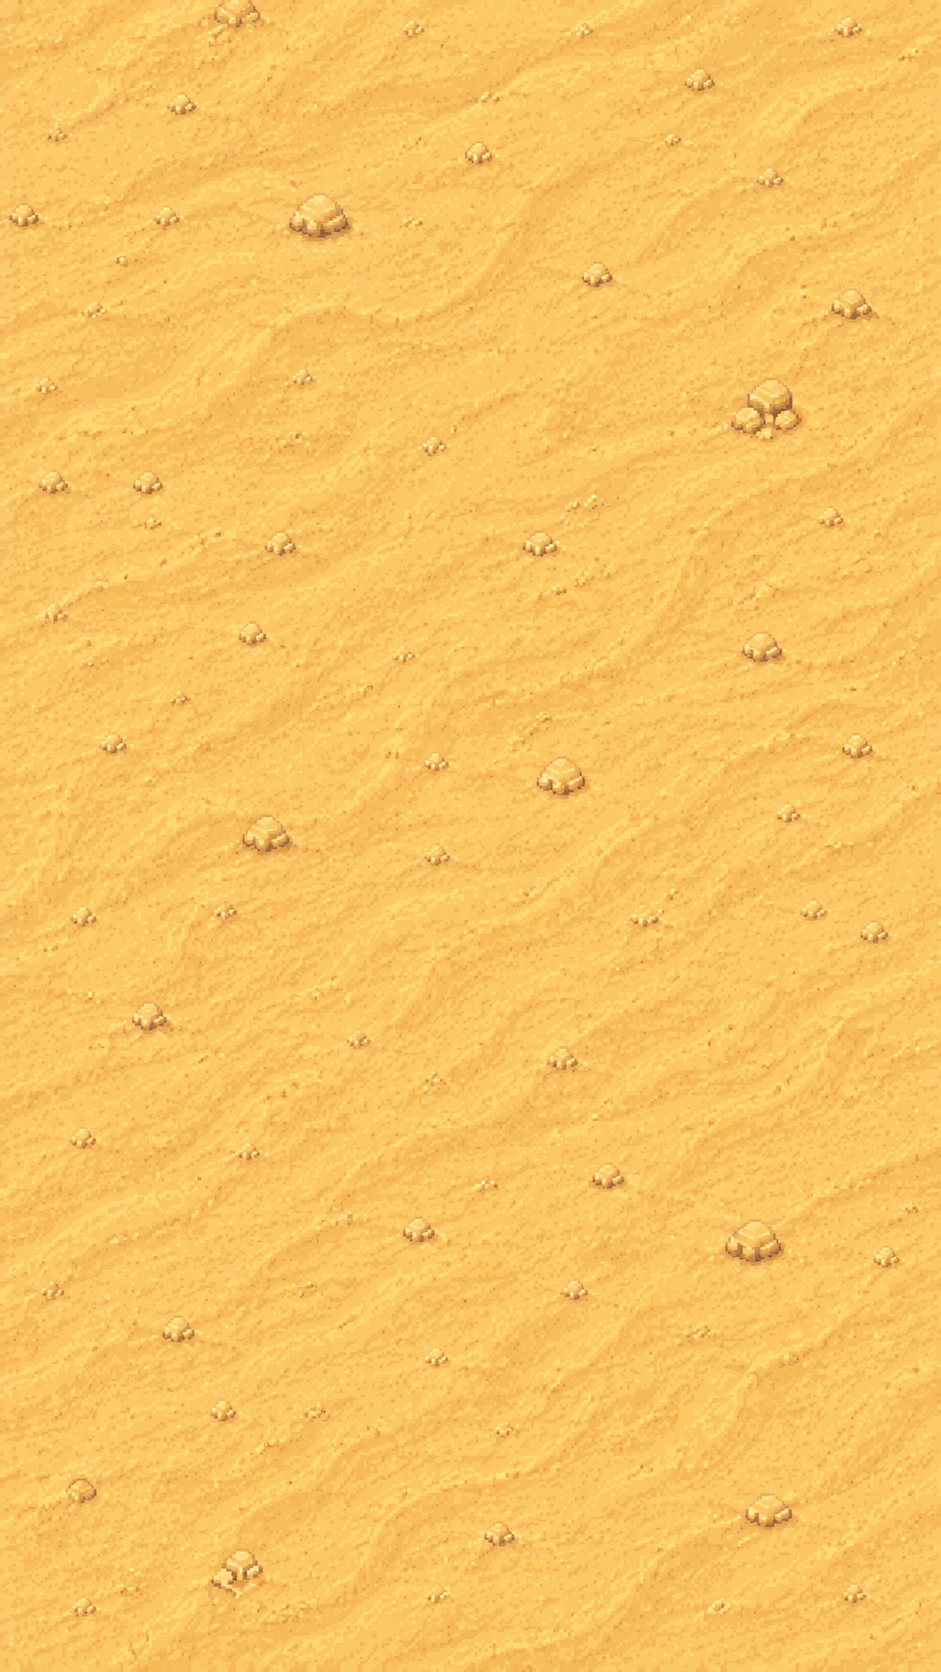
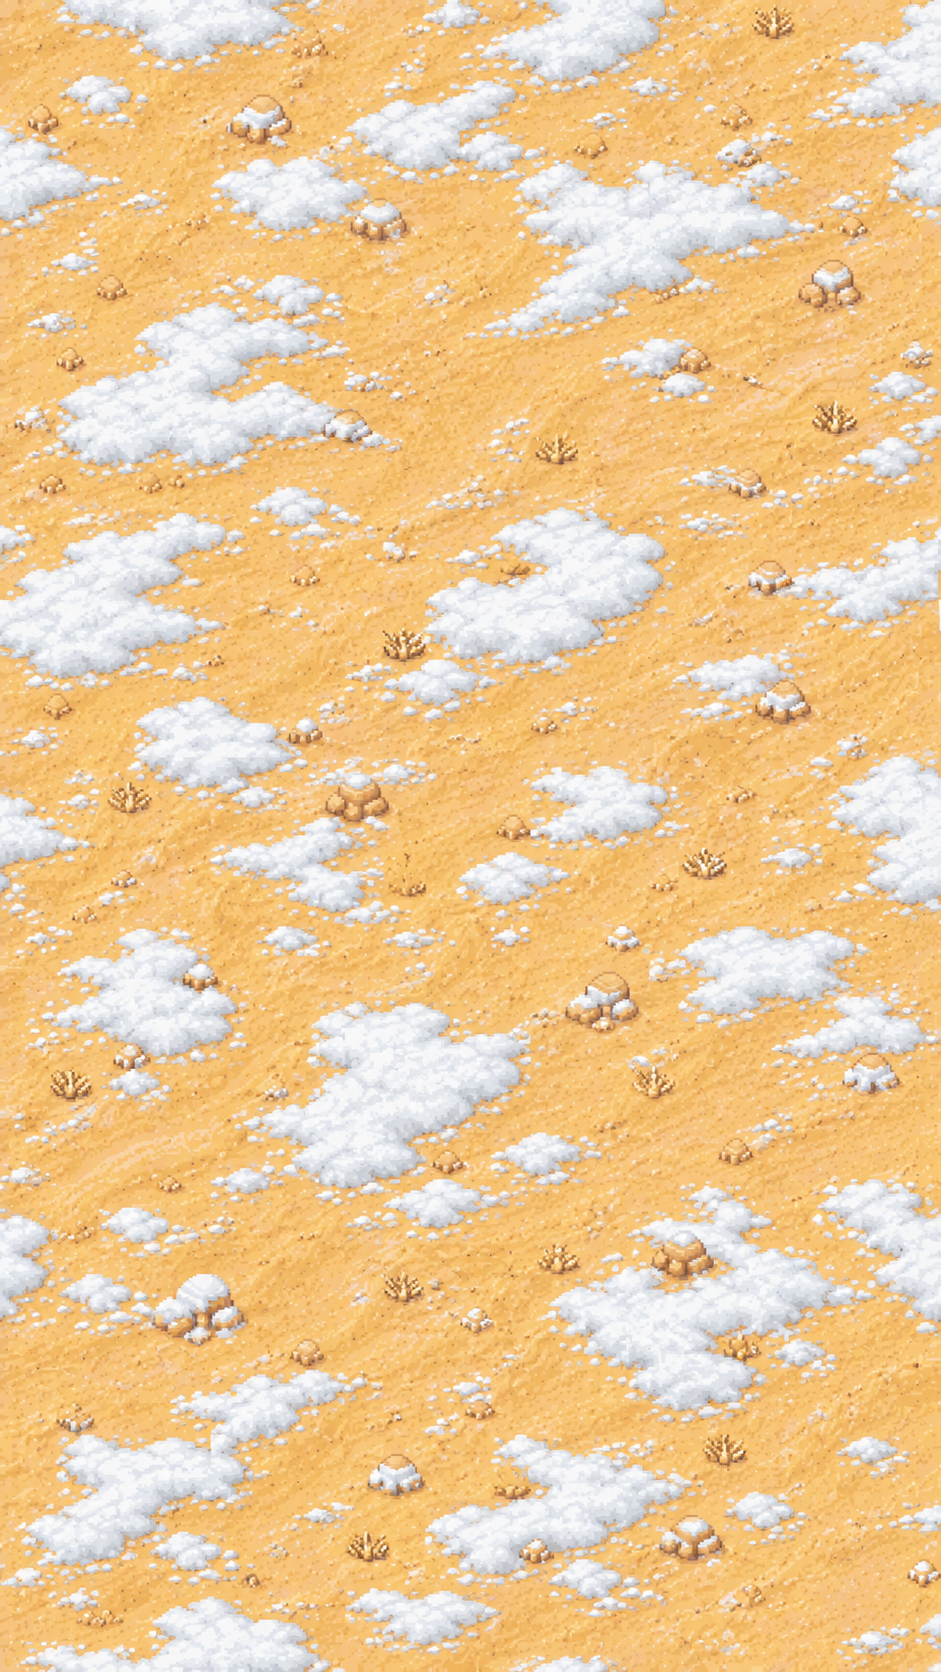
Add custom hitbox to Player and update collision detection in PlayScene and CollisionSystem

diff --git a/src/entities/Player.js b/src/entities/Player.js
@@ -31,6 +31,10 @@ export class Player {
     this.tiltAngle = 30;        // độ nghiêng khi di chuyển (degrees)
     this.tiltSpeed = 6;         // tốc độ lerp rotation (cao = nhanh hơn)
 
+    // ── Collision hitbox (nhỏ hơn sprite, bỏ qua transparent padding) ──
+    this._hitboxW = 42;         // px — chiều rộng vùng va chạm thực tế
+    this._hitboxH = 64;         // px — chiều cao vùng va chạm thực tế
+
     // ── Runtime state ──
     this.velocityX = 0;
     this._currentAnim = null;   // track animation hiện tại
@@ -133,6 +137,20 @@ export class Player {
   /** Trả về vị trí hiện tại */
   getPosition() {
     return { x: this.sprite.x, y: this.sprite.y };
+  }
+
+  /**
+   * Trả về hitbox rectangle (nhỏ hơn sprite, bỏ qua padding dư).
+   * Dùng cho AABB collision — không dùng getBounds().
+   * @returns {Phaser.Geom.Rectangle}
+   */
+  getHitbox() {
+    return new Phaser.Geom.Rectangle(
+      this.sprite.x - this._hitboxW / 2,
+      this.sprite.y - this._hitboxH / 2,
+      this._hitboxW,
+      this._hitboxH,
+    );
   }
 
   /**销毁 khi scene stop */

diff --git a/src/systems/CollisionSystem.js b/src/systems/CollisionSystem.js
@@ -16,12 +16,12 @@ export class CollisionSystem {
 
   /**
    * Kiểm tra va chạm giữa Player và danh sách vật cản active
-   * @param {Phaser.GameObjects.Sprite} playerSprite — sprite của Player
+   * @param {Player} player — instance Player (dùng getHitbox() thay vì getBounds())
    * @param {Array} activeObstacles — mảng các Tree/Rock đang active (từ SpawnSystem._active)
    * @returns {{ isPlayerDead: boolean }}
    */
-  check(playerSprite, activeObstacles) {
-    const pb = playerSprite.getBounds();
+  check(player, activeObstacles) {
+    const pb = player.getHitbox();
 
     for (const obstacle of activeObstacles) {
       if (!obstacle.active) continue;

diff --git a/src/scenes/PlayScene.js b/src/scenes/PlayScene.js
@@ -70,9 +70,9 @@ export class PlayScene extends Phaser.Scene {
     const { x: playerX } = this._player.getPosition();
     this._spawnSystem.update(delta, playerX);
 
-    // 5. Kiểm tra va chạm AABB
+    // 5. Kiểm tra va chạm AABB (dùng hitbox custom từ Player)
     const { isPlayerDead } = this._collisionSystem.check(
-      this._player.sprite,
+      this._player,
       this._spawnSystem._active,
     );
 